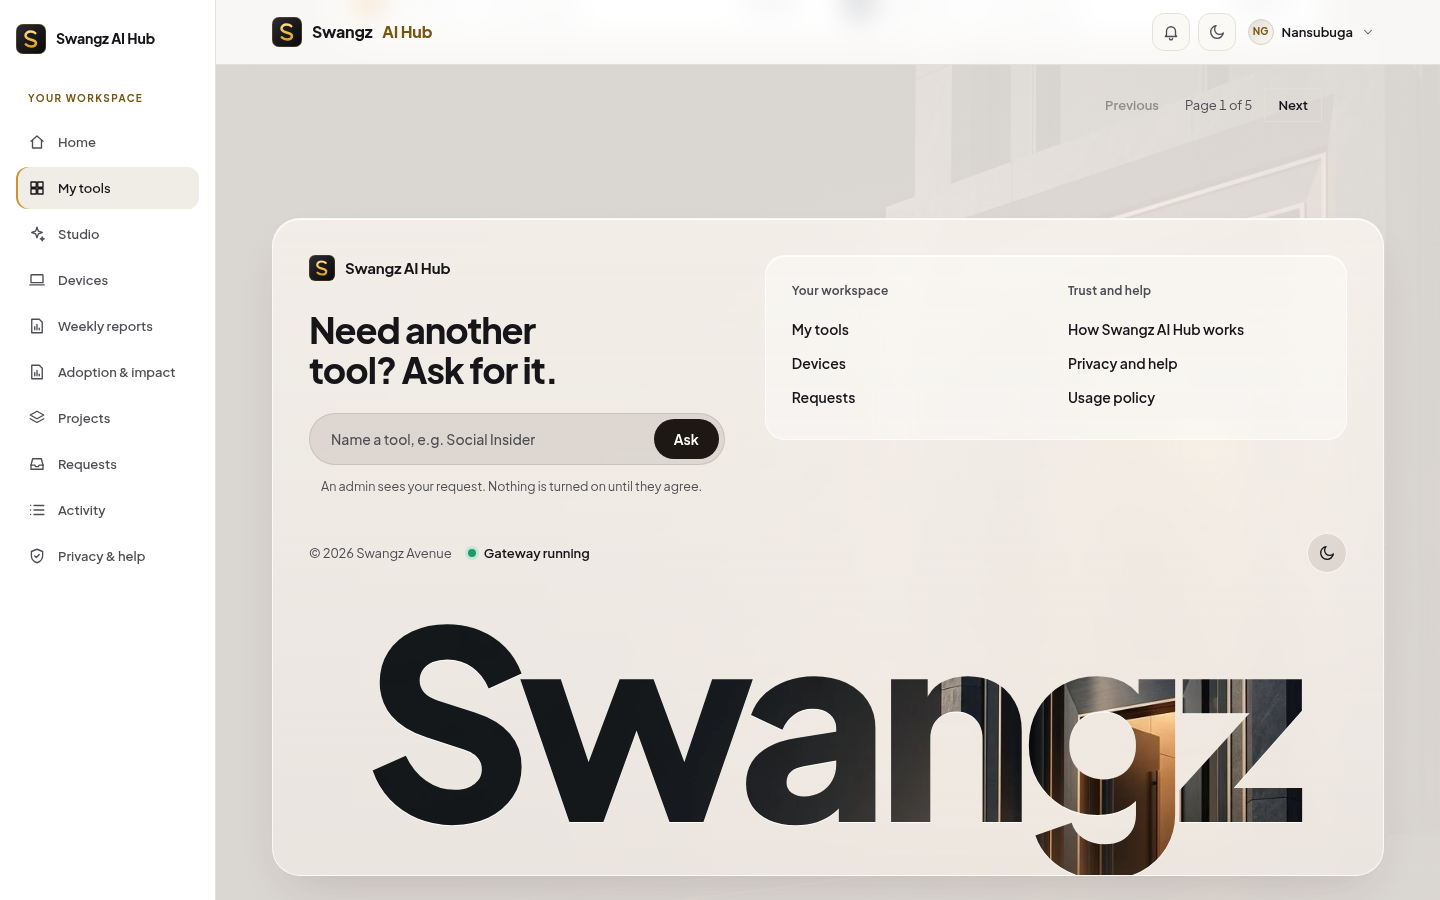
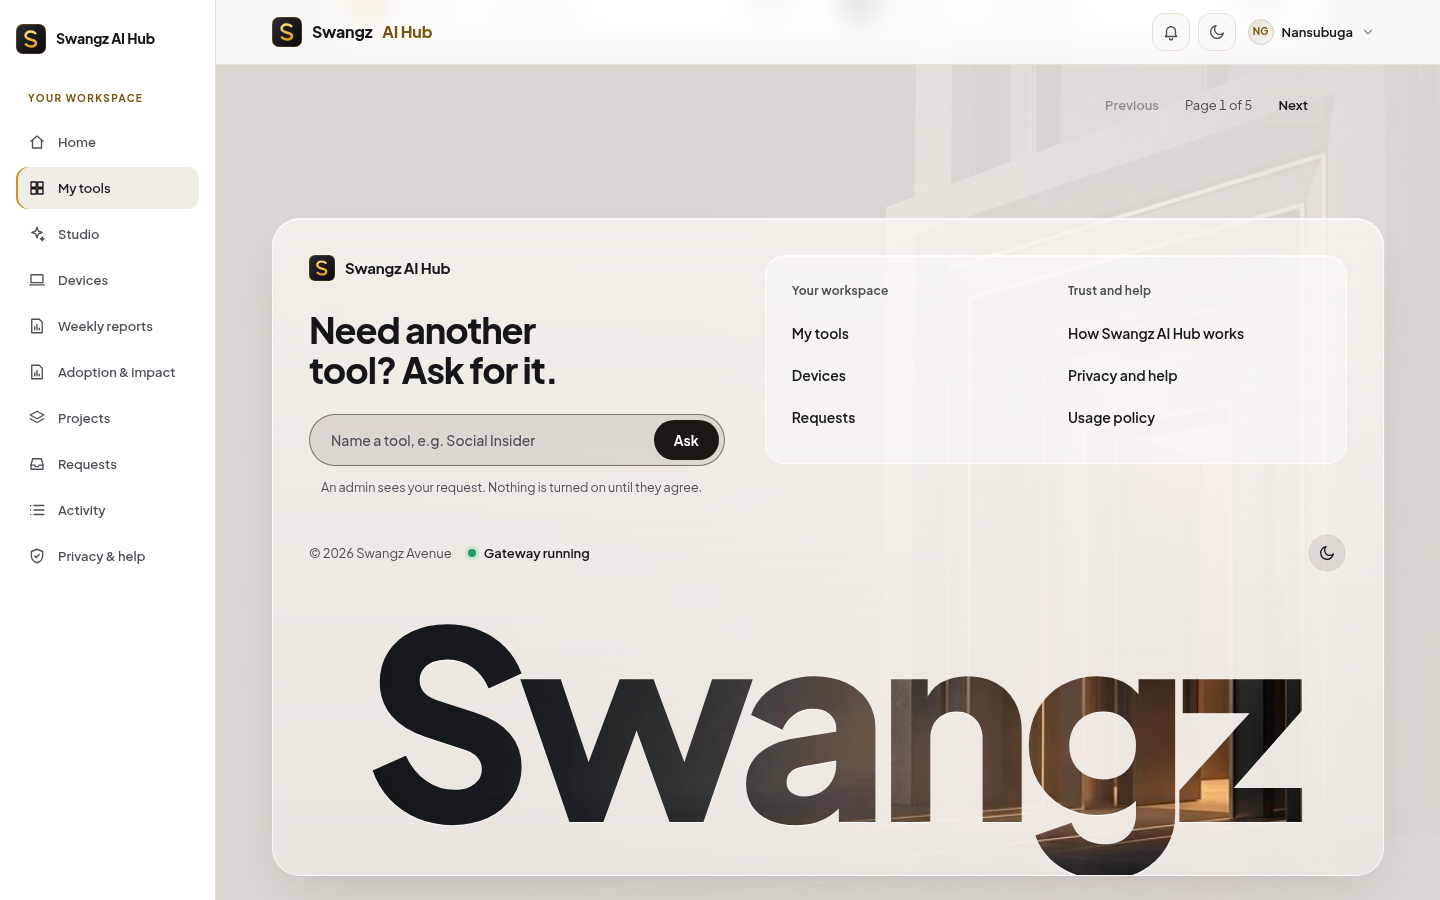
Footer: no live backdrop blur and a content-only reveal, focus reveals hidden controls, 40px link targets, three health wordings, unmatched-tool message stays, hover lift off for reduced motion

diff --git a/gateway/static/portal.css b/gateway/static/portal.css
@@ -367,7 +367,8 @@ dialog .d-actions { display: flex; justify-content: flex-end; gap: var(--s3); pa
 @keyframes spin { to { transform: rotate(360deg); } }
 
 /* ------------------------------------------------------------ footer: liquid glass (R11)
-   One blur layer (the panel). The link card is a lighter well, not a second blur. The wordmark is cut out of the glass by
+   No backdrop blur: a live blur over a scrolling page stalled frames (3 runs: 9 frames over 50 ms), so the milky panel is a layered
+   translucent gradient instead. The link card is a lighter well. The wordmark is cut out of the glass by
    painting the same scene, scrim included, through the letters. Reveal animates transform and opacity only. */
 
 .foot.glass-foot { margin-top: var(--s9); border: 0; background: none; padding: 0 var(--gutter) var(--s6); }
@@ -375,16 +376,15 @@ dialog .d-actions { display: flex; justify-content: flex-end; gap: var(--s3); pa
 .gf-panel {
   --gf-ink: var(--tx-1); --gf-ink-2: var(--tx-2); --gf-cut-a: rgba(255, 246, 232, .46); --gf-cut-b: rgba(255, 246, 232, .24); --gf-cut-rim: rgba(255, 255, 255, .34);
   position: relative; border-radius: 28px; padding: clamp(20px, 3vw, 36px) clamp(18px, 3vw, 36px) 0; overflow: hidden;
-  background: var(--glass-bg); border: 1px solid var(--glass-rim); box-shadow: var(--glass-highlight), var(--glass-shadow);
-  -webkit-backdrop-filter: var(--glass-blur); backdrop-filter: var(--glass-blur); color: var(--gf-ink);
+  background: linear-gradient(180deg, rgba(48, 41, 37, .78), rgba(26, 22, 20, .84)); border: 1px solid var(--glass-rim); box-shadow: var(--glass-highlight), var(--glass-shadow); color: var(--gf-ink);
 }
 html[data-theme="light"] .gf-panel { --gf-cut-a: rgba(255, 250, 244, 0); --gf-cut-b: rgba(255, 250, 244, 0); --gf-cut-rim: rgba(255, 255, 255, .9); background: linear-gradient(180deg, rgba(250, 246, 240, .74), rgba(245, 240, 234, .58)); }
 .gf-grid { display: grid; grid-template-columns: minmax(0, 5fr) minmax(0, 7fr); gap: clamp(20px, 3vw, 40px); align-items: start; }
 .gf-brand { display: inline-flex; align-items: center; gap: 10px; font-weight: 700; font-size: 15px; letter-spacing: -.01em; }
 .gf-brand img { width: 26px; height: 26px; }
 .gf-line { margin: var(--s5) 0 var(--s5); font-size: clamp(1.6rem, 2.6vw, 2.25rem); line-height: 1.1; font-weight: 750; letter-spacing: -.03em; max-width: 12ch; text-wrap: balance; }
-.gf-ask { display: flex; align-items: center; gap: 6px; padding: 5px; border-radius: 999px; background: rgba(20, 17, 15, .38); border: 1px solid var(--glass-rim); max-width: 440px; }
-html[data-theme="light"] .gf-ask { background: rgba(60, 44, 30, .10); border-color: rgba(60, 44, 30, .12); }
+.gf-ask { display: flex; align-items: center; gap: 6px; padding: 5px; border-radius: 999px; background: rgba(20, 17, 15, .38); border: 1px solid rgba(255, 255, 255, .42); max-width: 440px; }
+html[data-theme="light"] .gf-ask { background: rgba(60, 44, 30, .10); border-color: rgba(60, 44, 30, .6); }
 .gf-input { flex: 1; min-width: 0; height: 40px; padding: 0 16px; border: 0; background: transparent; color: var(--gf-ink); font: 500 14px/1 var(--font); outline: none; border-radius: 999px; }
 .gf-input::placeholder { color: var(--gf-ink-2); opacity: 1; }
 .gf-ask:focus-within { outline: 2px solid var(--accent); outline-offset: 2px; }
@@ -394,13 +394,15 @@ html[data-theme="light"] .gf-btn, html[data-theme="light"] .gf-ask-link { backgr
 .gf-ask-link svg { width: 16px; height: 16px; }
 .gf-btn:hover, .gf-ask-link:hover { transform: translateY(-2px); }
 .gf-note { margin: var(--s3) 0 0 var(--s3); font-size: 12.5px; color: var(--gf-ink-2); max-width: 44ch; }
+.gf-note a { color: var(--gf-ink); text-decoration: underline; text-underline-offset: 3px; }
 .gf-card { display: grid; grid-template-columns: repeat(2, minmax(0, 1fr)); gap: var(--s5); padding: clamp(16px, 2vw, 26px); border-radius: 20px;
   background: rgba(255, 255, 255, .07); border: 1px solid var(--glass-rim); box-shadow: var(--glass-highlight); }
 html[data-theme="light"] .gf-card { background: rgba(255, 255, 255, .42); }
 .gf-col h2 { margin: 0 0 var(--s3); font-size: 12px; font-weight: 650; letter-spacing: .02em; color: var(--gf-ink-2); }
 .gf-col ul { list-style: none; margin: 0; padding: 0; display: grid; gap: 2px; }
-.foot .gf-col a, .foot .gf-col button { display: inline-flex; align-items: center; min-height: 32px; font: 600 14px/1.3 var(--font); color: var(--gf-ink); text-decoration: none; background: none; border: 0; padding: 0; cursor: pointer; border-radius: 6px; }
+.foot .gf-col a, .foot .gf-col button { display: inline-flex; align-items: center; min-height: 40px; font: 600 14px/1.3 var(--font); color: var(--gf-ink); text-decoration: none; background: none; border: 0; padding: 0; cursor: pointer; border-radius: 6px; }
 .foot .gf-col a:hover, .foot .gf-col button:hover { text-decoration: underline; text-underline-offset: 4px; }
+@media (pointer: coarse) { .foot .gf-col a, .foot .gf-col button { min-height: 44px; } }
 .gf-panel :is(a, button):focus-visible { outline: 2px solid var(--accent); outline-offset: 3px; }
 .gf-meta { display: flex; align-items: center; justify-content: space-between; gap: var(--s4); flex-wrap: wrap; margin-top: clamp(20px, 3vw, 36px); font-size: 13px; color: var(--gf-ink-2); }
 .gf-status { display: inline-flex; align-items: center; gap: 8px; font-weight: 600; color: var(--gf-ink); }
@@ -420,27 +422,19 @@ html[data-theme="light"] .gf-theme { background: rgba(60, 44, 30, .10); }
   /* the rim is a drop-shadow of the painted shape: a text stroke would also draw the variable font's overlapping inner contours */
   filter: drop-shadow(0 1px 0 var(--gf-cut-rim));
 }
-.gf-crest { display: none; }
 
-/* The reveal: only when armed (observer present, motion allowed); otherwise the footer is simply there. */
-.gf-armed .gf-panel { opacity: 0; transform: translateY(56px); transition: opacity var(--dur-3) var(--ease-out), transform 900ms var(--ease-out); will-change: transform, opacity; }
-.gf-armed.gf-in .gf-panel { opacity: 1; transform: none; }
-.gf-armed .gf-grid, .gf-armed .gf-meta { opacity: 0; transform: translateY(14px); transition: opacity var(--dur-3) var(--ease-out) 380ms, transform 700ms var(--ease-out) 380ms; }
-.gf-armed .gf-word { opacity: 0; transform: translateY(24px); transition: opacity 800ms var(--ease-out) 560ms, transform 900ms var(--ease-out) 560ms; }
+/* The reveal: only when armed (observer present, motion allowed); otherwise the footer is simply there.
+   The glass panel never moves or fades: a blurred layer that animates is re-blurred every frame, which is what made the first
+   version stall. Only the content on top rises and fades in (opacity and transform), and the wordmark fades in place. */
+.gf-armed :is(.gf-grid, .gf-meta) { opacity: 0; transform: translateY(14px); transition: opacity var(--dur-3) var(--ease-out) 120ms, transform 700ms var(--ease-out) 120ms; }
+.gf-armed .gf-word { opacity: 0; transition: opacity 900ms var(--ease-out) 320ms; }
 .gf-armed.gf-in :is(.gf-grid, .gf-meta, .gf-word) { opacity: 1; transform: none; }
-.gf-armed .gf-crest { display: block; position: absolute; left: -10%; right: -10%; top: -1px; height: 34px; pointer-events: none; opacity: .9;
-  background: radial-gradient(60% 100% at 18% 100%, var(--glass-bg) 98%, transparent 100%), radial-gradient(55% 100% at 62% 100%, var(--glass-bg) 98%, transparent 100%), radial-gradient(40% 100% at 92% 100%, var(--glass-bg) 98%, transparent 100%);
-  transform: translate(-6%, -100%); transition: opacity 700ms var(--ease-out) 700ms, transform 1200ms var(--ease-out); }
-.gf-armed.gf-in .gf-crest { transform: translate(4%, -100%); opacity: 0; }
 
 @media (prefers-reduced-motion: reduce) {
-  .gf-armed .gf-panel, .gf-armed :is(.gf-grid, .gf-meta, .gf-word) { transform: none; transition: opacity var(--dur-2) linear; }
+  .gf-armed :is(.gf-grid, .gf-meta, .gf-word) { transform: none; transition: opacity var(--dur-2) linear; }
+  .gf-btn:hover, .gf-ask-link:hover { transform: none; }
 }
 @media (prefers-reduced-transparency: reduce) {
-  .gf-panel { background: var(--ink-2); -webkit-backdrop-filter: none; backdrop-filter: none; }
-  .gf-card { background: var(--ink-3); }
-}
-@supports not (backdrop-filter: blur(1px)) {
   .gf-panel { background: var(--ink-2); }
   .gf-card { background: var(--ink-3); }
 }

diff --git a/gateway/static/portal.js b/gateway/static/portal.js
@@ -311,8 +311,9 @@
   let healthCache = null;
   function gatewayHealth(set) {
     if (healthCache && Date.now() - healthCache.at < 60000) return set(healthCache.ok);
-    fetch(gurl("/healthz"), { cache: "no-store" }).then((r) => r.json().then((j) => !!(r.ok && j && j.ok)), () => false)
-      .catch(() => false).then((ok) => { healthCache = { ok, at: Date.now() }; set(ok); });
+    // "up" = healthy; "db" = the gateway answered but says its database is not (503 with a body); "down" = no usable answer
+    fetch(gurl("/healthz"), { cache: "no-store" }).then((r) => r.json().then((j) => (r.ok && j && j.ok ? "up" : j && j.ok === false ? "db" : "down"), () => "down"))
+      .catch(() => "down").then((ok) => { healthCache = { ok, at: Date.now() }; set(ok); });
   }
   function glassFooter() {
     const me = S.me;
@@ -326,8 +327,8 @@
         const q = input.value.trim().toLowerCase();
         const t = q && (requestable.find((x) => x.name.toLowerCase() === q) || requestable.find((x) => x.name.toLowerCase().includes(q)));
         if (t) { input.value = ""; note.textContent = "An admin sees your request. Nothing is turned on until they agree."; return requestAccess(t); }
-        note.textContent = q ? "No locked tool matches that. Browse every tool to find it." : "Type the name of a tool you do not have yet.";
-        if (q) location.hash = "#/tools?q=" + encodeURIComponent(input.value.trim());
+        if (!q) { note.textContent = "Type the name of a tool you do not have yet."; return; }
+        note.replaceChildren("No locked tool matches that. ", el("a", { href: "#/tools?q=" + encodeURIComponent(input.value.trim()) }, "Search every tool for it"), ".");
       };
       return [el("form", { class: "gf-ask", onsubmit: send }, input, el("datalist", { id: listId }, requestable.map((t) => el("option", { value: t.name }))),
         el("button", { class: "gf-btn", type: "submit" }, "Ask")), note];
@@ -336,12 +337,11 @@
     const dot = el("span", { class: "gf-dot", "data-state": "checking", "aria-hidden": "true" });
     const word = el("span", null, "Checking gateway");
     const status = el("span", { class: "gf-status", role: "status" }, dot, word);
-    gatewayHealth((ok) => { dot.dataset.state = ok ? "ok" : "bad"; word.textContent = ok ? "Gateway running" : "Gateway not answering"; });
+    gatewayHealth((st) => { dot.dataset.state = st === "up" ? "ok" : "bad"; word.textContent = st === "up" ? "Gateway running" : st === "db" ? "Gateway up, database not responding" : "Gateway not answering"; });
     const col = (title, links) => el("div", { class: "gf-col" }, el("h2", null, title), el("ul", null, links.map((l) => el("li", null, l))));
     const theme = SUI.themeButton("gf-theme");
     const f = el("footer", { class: "foot glass-foot" }, el("div", { class: "gf-wrap" },
       el("div", { class: "gf-panel" },
-        el("span", { class: "gf-crest", "aria-hidden": "true" }),
         el("div", { class: "gf-grid" },
           el("div", { class: "gf-lead" },
             el("span", { class: "gf-brand" }, el("img", { src: "/static/icon.svg", alt: "" }), "Swangz AI Hub"),
@@ -353,7 +353,10 @@
         el("div", { class: "gf-word", "aria-hidden": "true" }, "Swangz"))));
     if ("IntersectionObserver" in window && !matchMedia("(prefers-reduced-motion: reduce)").matches) {
       f.classList.add("gf-armed");
-      const io = new IntersectionObserver((es) => { if (es.some((e) => e.isIntersecting)) { f.classList.add("gf-in"); io.disconnect(); } }, { threshold: 0.15 });
+      const show = () => { f.classList.add("gf-in"); io.disconnect(); };
+      const io = new IntersectionObserver((es) => { if (es.some((e) => e.isIntersecting)) show(); }, { threshold: 0.15 });
+      // keyboard users can tab into the footer before it scrolls into view: reveal it the moment a control inside is focused
+      f.addEventListener("focusin", show, { once: true });
       requestAnimationFrame(() => io.observe(f));
     }
     return f;

diff --git a/docs/screenshots/glass-r11/README.md b/docs/screenshots/glass-r11/README.md
@@ -7,9 +7,28 @@ Regenerate: `node docs/screenshots/glass-r11/check.cjs` (needs Playwright and Ch
 Real data only: health is the public `/healthz` (cached 60 s), "Ask" reuses the existing request dialog (`POST /tools/{id}/request`), links are existing routes.
 
 ## Differences still left versus the reference
-- The panel's top edge settles straight; the reference keeps a wavy liquid edge. The wave (`.gf-crest`) is visible only during the reveal.
+- The panel's top edge settles straight; the reference keeps a wavy liquid edge. The reveal wave was removed with the panel animation (below).
 - In dark theme the wordmark is the fixed scene lifted by a warm light layer, so "Swa" reads as soft grey while "ngz" shows more of the photo; the reference letters are brighter still. The rim is a drop-shadow, not a text stroke (a stroke drew the variable font's overlapping inner contours).
 - The "g" descender runs into the panel's bottom edge on purpose (cut-off wordmark); the reference shows the full letter.
-- Light theme panel is a flatter cream than the reference's frosted white; there is only one blur layer by design.
+- Light theme panel is a flatter cream than the reference's frosted white; the panel is a layered translucent gradient with no backdrop blur (see below), so it is flatter than frosted glass.
 - `background-attachment: fixed` is ignored on iOS Safari, so the cut-out falls back to the scene scaled to the wordmark box.
-- No "Gateway status" detail beyond running / not answering: no other health data is available to show.
+- Gateway status has three wordings (running; up with the database not responding; not answering). No other health data is available to show.
+
+## Corrections after Probe's review of 172c77a (portal.css, portal.js, this folder only)
+Reveal jank, measured with `/tmp`-style frame sampler (140 requestAnimationFrame frames while the footer scrolls into view, 1440x900, headless Chrome with **software rendering**, so absolute numbers are pessimistic; same script for every row):
+| Variant | Frames over 50 ms (per run) | Worst frame |
+|---|---|---|
+| 172c77a (blur panel, animated panel) | 6 to 9 | 300 to 880 ms |
+| Panel kept static, content-only reveal, blur kept | 6 to 9 (no gain) | 350 to 880 ms |
+| Same, backdrop blur off (isolated by an injected rule) | 1 to 8 (noisy) | 67 to 200 ms |
+| **This head: no backdrop blur, content-only reveal** | **1 to 4** | **117 to 183 ms** |
+| This head with the wordmark hidden (experiment only) | 1 | 67 to 117 ms |
+
+Findings: the live backdrop blur was the main cost (a blur radius of 8 px cost the same as 22 px, so it is the layer, not its size); moving the panel was not. The remaining stalls come from the wordmark, a 300px text clip painted from a fixed full-size photo. Trying a separate layer and a non-fixed background did not help. Main (no footer) is 0 to 1 over 50 ms, so **this is better but not at parity**; the wordmark is the next step and I stopped there rather than flatten the reference's signature element. On a machine with a GPU the original blur may be fine; I could not measure one.
+- Panel: layered gradient instead of backdrop blur; still reads as milky glass (screenshots). The panel no longer moves or fades; only the content rises and fades in (opacity and transform), the wordmark fades in place. The wave crest is removed.
+- Reduced motion: hover lift off as well (checked). Reveal is not armed at all when reduced motion is requested at load.
+- Controls hidden before the reveal: focusing any footer control reveals the footer at once (checked), so nothing focusable stays invisible.
+- Footer link targets 40px (44px on coarse pointers); were 32px.
+- Ask field border: white at .42 on dark, brown at .6 on light, so the field edge shows. Not measured numerically (estimated above 3:1 from the panel colours).
+- `/healthz` 503 with a body now reads "Gateway up, database not responding" (checked with a mocked 503); unreachable stays "Gateway not answering".
+- Typing a tool that does not exist keeps the message on the footer with a "Search every tool for it" link instead of jumping to Tools and losing the message (checked).
